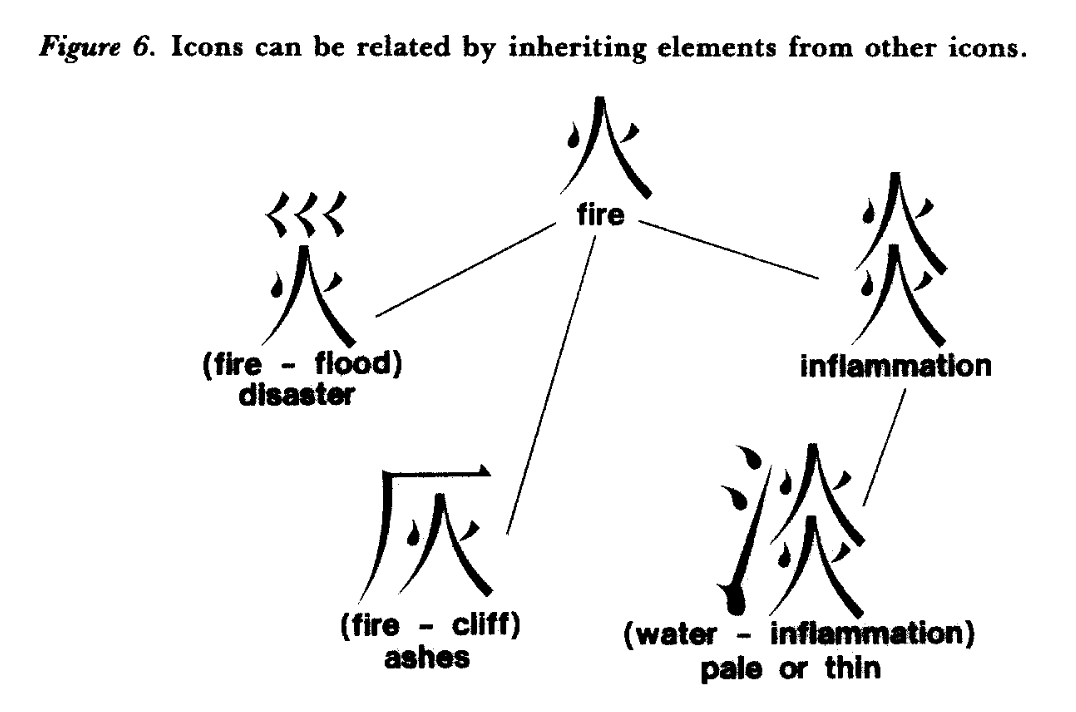
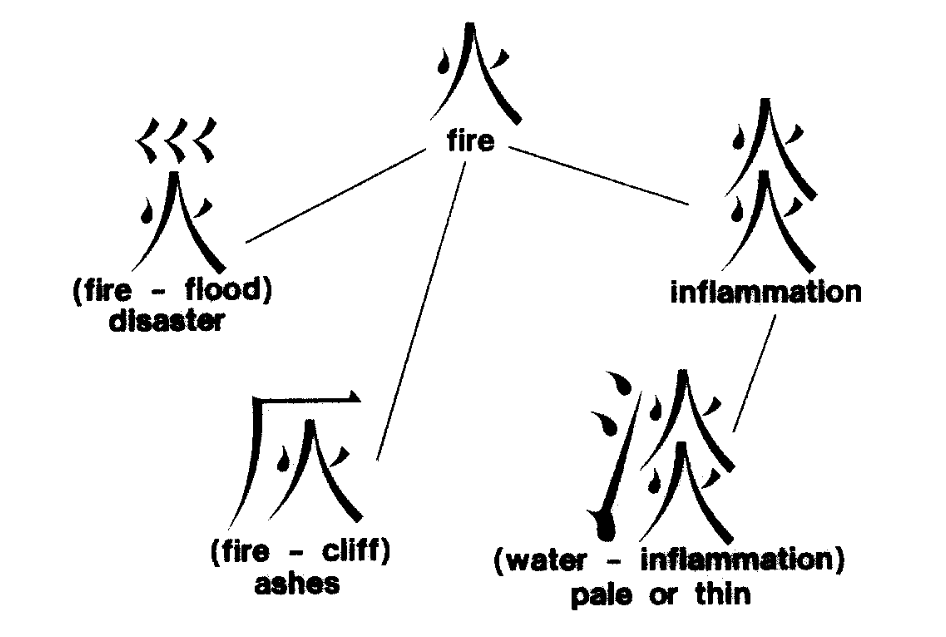
everything editted, except redrawing jr_2017

diff --git a/chapters/experiments.tex b/chapters/experiments.tex
@@ -352,8 +352,8 @@ The following data was collected:
 \begin{sidewaystable}[]
 	\caption{Collected data sample}
 	\label{tab:pilot2datasample}
-	\begin{adjustbox}{width=\linewidth}
-	\begin{tabularx}{\linewidth}{|X|X|X|X|X|X|X|X|X|X|X|X|X|X|X|X|X|X|X|X|X|X|X|X|}
+	\begin{adjustbox}{width=\textwidth}
+	\begin{tabular}{|l|l|l|l|l|l|l|l|l|l|l|l|l|l|l|l|l|l|l|l|l|l|l|l|}
 		\hline
 		\textbf{From X} & \textbf{From Y} & \textbf{From Z} & \textbf{To X} & \textbf{To Y} & \textbf{To Z} & \textbf{From Abbreviation} & \textbf{To Abbreviation} & \textbf{Translation Start} & \textbf{Translation Finish} & \textbf{Guess From X} & \textbf{Guess From Y} & \textbf{Guess From Z} & \textbf{Guess To X} & \textbf{Guess To Y} & \textbf{Guess To Z} & \textbf{Guess Start} & \textbf{Guess Finish} & \textbf{Angle From} & \textbf{Angle To} & \textbf{Guess Angle From} & \textbf{Guess Angle To} & \textbf{Divergence Angle From} & \textbf{Divergence Angle To} \\ \hline
 		-20             & 1               & -20             & 20            & 1             & 20            & LB                         & RF                       & 39.71933                   & 41.60712                    & -29.03961             & 1.6408                & 0.8568682             & 29.05239            & 1.415723            & 0.03126525          & 56.90051             & 58.93457              & -135                & 45                & -88.30988                 & 89.93834                & 46.69013                       & 44.93834                     \\ \hline
@@ -396,7 +396,7 @@ The following data was collected:
 		-20             & 1               & 20              & 20            & 1             & -20           & LF                         & RB                       & 587.9667                   & 589.8551                    & -29.04444             & 1.177001              & 0.5450366             & 29.05175            & 1.231818            & 0.07212715          & 593.7642             & 595.8871              & -45                 & 135               & -88.92494                 & 89.85775                & -43.92494                      & -45.14225                    \\ \hline
 		-20             & 1               & 20              & -20           & 1             & -20           & LF                         & LB                       & 599.8282                   & 601.1689                    & -20.07892             & 2.337029              & -21.05619             & -21.13209           & 3.376208            & 20.0246             & 602.9206             & 603.7197              & -45                 & -135              & -136.3609                 & -46.54139               & -91.36095                      & 88.4586                      \\ \hline
 		-20             & 1               & 20              & 28.28427      & 1             & 0             & LF                         & R                        & 608.1597                   & 609.9161                    & -17.54933             & 2.892593              & 23.16736              & 29.04927            & 1.439725            & 0.2327894           & 616.6708             & 617.8992              & -45                 & 90                & -37.14401                 & 89.54086                & 7.855978                       & -0.4592754                   \\ \hline
-	\end{tabularx}
+	\end{tabular}
 	\end{adjustbox}
 \end{sidewaystable}
 
@@ -719,11 +719,9 @@ Statistical summary for each group can be found in Table \ref{tab:final_study_st
 
 \textit{Controls} Some users indicated that the controller mappings chosen for the final study were not convenient (Appendix \ref{app:finalstudy_controls}). Specifically, the fact that the main function of the 3D brush controller was mapped to the trigger, but for the minimap controller it was mapped to the touchpad. The controls were chosen this way, because drawing with your thumb constantly on the touchpad did not seem convenient, while the laser pointer's capabilities map perfectly to the two input modes for of a touchpad: the touch and press. The pressure sensitivity of the trigger does not provide such a clear separation between the press levels. This ambiguity of the mapping choice indicates that physical ergonomics factors also deserves an investigation in the current setup.
 
-\begin{figure}[b]
+\begin{figure}[h]
 	\centering
-	\subfloat{\includegraphics[width=0.7\linewidth]{figures/finalstudy_minimap_around1}}
-	\par
-	\subfloat{\includegraphics[width=0.7\linewidth]{figures/finalstudy_minimap_around2}}
+	\subfloat{\includegraphics[width=0.9\linewidth]{figures/finalstudy_minimap_around2}}
 	\caption{Minimap surrounding the participant}
 	\label{fig:finalstudyminimaparound}
 \end{figure}

diff --git a/chapters/related_work.tex b/chapters/related_work.tex
@@ -22,7 +22,7 @@ Based on the actions taken, the responses can be fed back into the information p
 \begin{figure}
 	\centering
 	\includegraphics[width=0.7\linewidth]{figures/placeholders/information_processing_loop}
-	\caption{Information processing loop (Redrawn from \parencite{jr_3d_2017})}
+	\caption{Information processing loop. Source: \parencite{jr_3d_2017}} % TODO: redraw
 	\label{fig:informationprocessingloop}
 \end{figure}
 
@@ -103,7 +103,7 @@ The next paradigm shift started to happen in the late 1990s, where the already e
 	\hfill
 	\subfloat[CVE]{\includegraphics[width=0.4\linewidth]{figures/churchill_snowdon_cscw_vs_cve/Embodiments-in-MASSIVE-1}}
 	\hfill
-	\caption{Approaches to collaboration (Source: \parencite{churchill_collaborative_1998})}
+	\caption{Approaches to collaboration. Source: \parencite{churchill_collaborative_1998}}
 	\label{fig:approaches_to_collaboration}
 \end{figure}
 

diff --git a/chapters/Awareness.tex b/chapters/Awareness.tex
@@ -22,7 +22,7 @@ Nevertheless, the biggest limitation of the mentioned approaches was that they a
 \begin{figure}
 	\centering
 	\includegraphics[width=0.7\linewidth]{figures/placeholders/SA_goal_oriented_task_analysis}
-	\caption{Format of Goal-Directed Task Analysis \parencite{endsley_direct_nodate}}
+	\caption{Format of Goal-Directed Task Analysis. Source: \parencite{endsley_direct_nodate}}
 	\label{fig:sagoalorientedtaskanalysis}
 \end{figure}
 This yields an extensive list of questions, which assess the \gls{sa} information of primary and secondary importance (example analysis can be seen the Table \ref{tab:sagoalorientedtaskanalysisresultexample}).

diff --git a/chapters/sonification.tex b/chapters/sonification.tex
@@ -76,8 +76,8 @@ The difference between the three classes is reflected in their names:
 
 \begin{figure}
 	\centering
-	\includegraphics[width=0.7\linewidth]{figures/placeholders/icons_tree_structure}
-	\caption{Hierarchically abstract icons (Redrawn from \parencite{blatter_earcons_1989})}
+	\includegraphics[width=0.5\linewidth]{figures/placeholders/icons_tree_structure}
+	\caption{Hierarchically abstract icons. Source: \parencite{blattner_1989_earcons}}
 	\label{fig:iconstreestructure}
 \end{figure}
 
